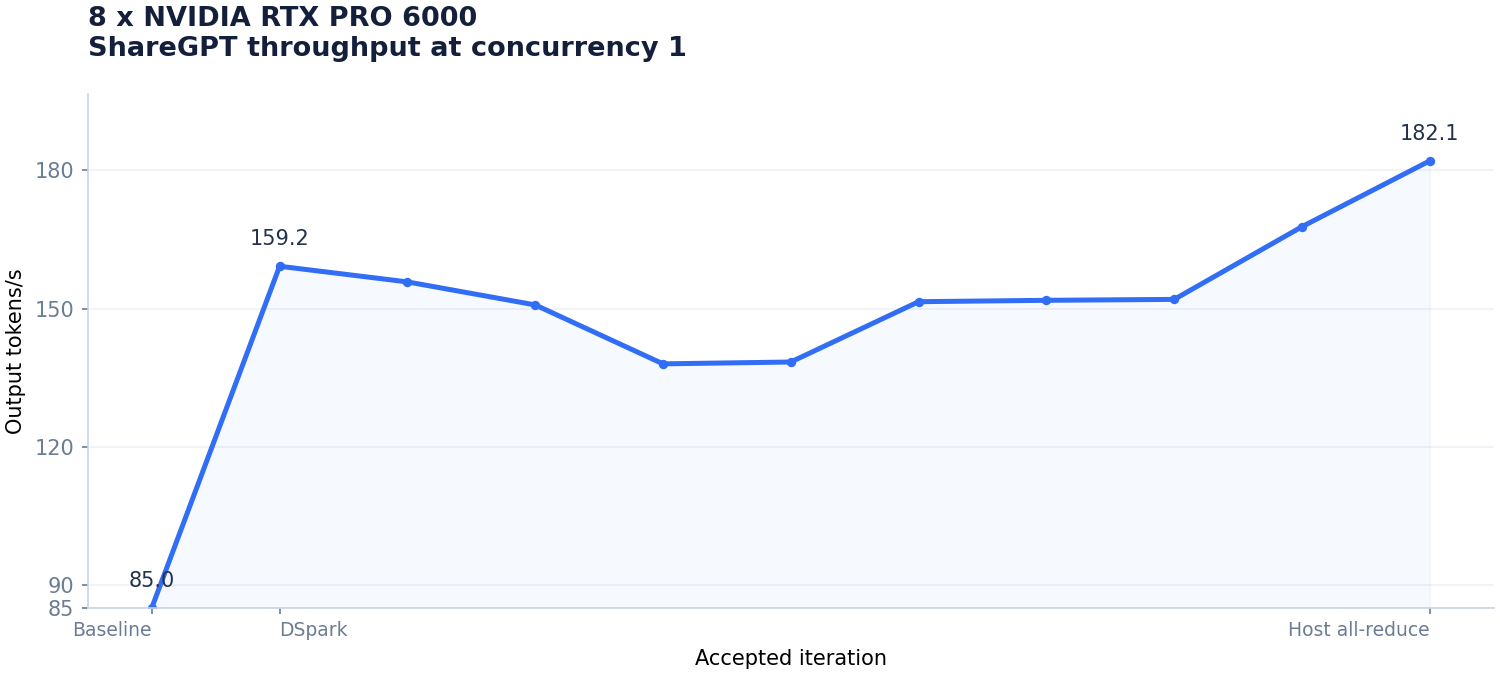
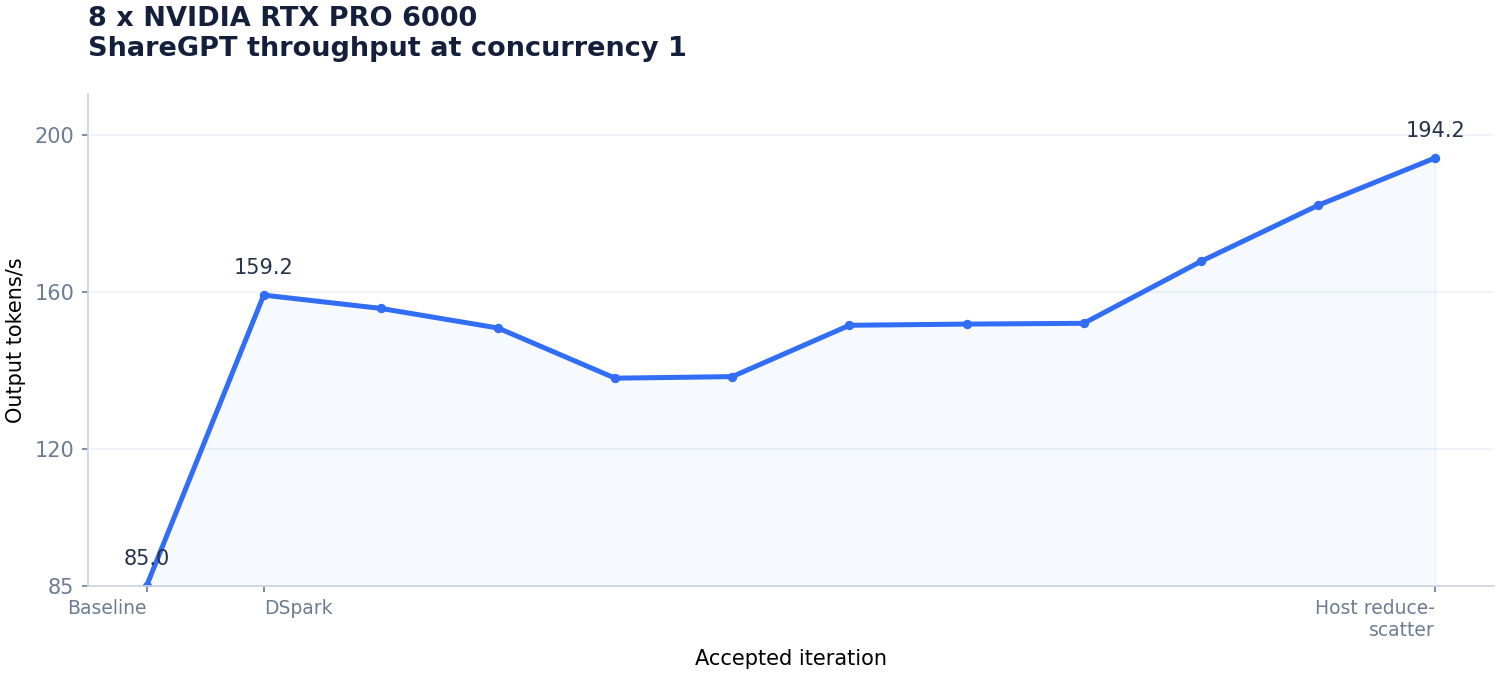
Reduce host-memory traffic

diff --git a/8-nvidia-rtx-pro-6000/CHANGELOG.md b/8-nvidia-rtx-pro-6000/CHANGELOG.md
@@ -4,12 +4,10 @@ The patch is cumulative against `vllm/vllm-openai:v0.32.0`; every working milest
 
 FlashInfer 0.7.1 replaces the bundled 0.7.0.post1 for runtime page-size support, and both the sm120 compatibility patch and `--block-size 64` are required.
 
-## 11. Host all-reduce
+## 12. Host reduce-scatter
 
-- Use mapped host memory in diff.patch for small TP reductions because this node only supports direct GPU peer access within pairs.
-- Publish epoch-tagged values in one CUDA kernel and reduce them across SMs in a second kernel to overlap host-memory reads.
-- Accumulate in FP32 in a fixed rank order so all GPUs receive identical BF16 results.
-- Keep reductions above four rows on NCCL because additional host-memory traffic removes the speedup.
+- Reduce each output slice once and gather the result because having every GPU sum every input repeats host-memory reads.
+- Assign a warp to each peer to overlap host reads while preserving the FP32 rank order and single BF16 rounding.
 
 Requirements, on a fresh vLLM image:
 
@@ -43,14 +41,14 @@ vllm serve deepseek-ai/DeepSeek-V4.1-Flash-1017 \
 
 | Concurrency | Prompts | Output t/s | p95 TTFT (ms) | p95 TPOT (ms) |
 |---:|---:|---:|---:|---:|
-| 1 | 128 | 182.1 | 128.0 | 6.68 |
-| 4 | 128 | 390.1 | 113.6 | 12.04 |
-| 8 | 128 | 586.8 | 211.6 | 15.97 |
-| 16 | 128 | 831.9 | 279.2 | 22.38 |
-| 32 | 128 | 1149.4 | 387.2 | 30.58 |
-| 64 | 128 | 1499.0 | 791.4 | 42.86 |
-| 128 | 256 | 2141.8 | 1322.9 | 75.10 |
-| 256 | 512 | 2741.4 | 3677.1 | 219.44 |
+| 1 | 128 | 194.2 | 128.0 | 6.16 |
+| 4 | 128 | 388.3 | 117.8 | 12.90 |
+| 8 | 128 | 581.0 | 211.9 | 16.09 |
+| 16 | 128 | 835.7 | 278.1 | 22.86 |
+| 32 | 128 | 1163.1 | 394.7 | 30.59 |
+| 64 | 128 | 1479.9 | 916.7 | 39.19 |
+| 128 | 256 | 2069.2 | 1334.7 | 68.75 |
+| 256 | 512 | 2794.1 | 2800.4 | 140.68 |
 
 ## Accepted progress
 
@@ -66,4 +64,5 @@ vllm serve deepseek-ai/DeepSeek-V4.1-Flash-1017 \
 | 8 | Native FP8 cache | 151.8 | [`a9e6ae8`](https://github.com/alvarobartt/DeepSeek-V4.1-Flash-RTX-PRO-6000/tree/a9e6ae8dd71ddca1d6a113493d382719633b3a5c) |
 | 9 | Bounded candidate masking | 152.0 | [`51061a6`](https://github.com/alvarobartt/DeepSeek-V4.1-Flash-RTX-PRO-6000/tree/51061a663497d98b907a35da5ddb76048eaacddb) |
 | 10 | Packed FP4 experts | 167.8 | [`9253782`](https://github.com/alvarobartt/DeepSeek-V4.1-Flash-RTX-PRO-6000/tree/92537829d7ce003664a820e67d61e12b39680329) |
-| 11 | Host all-reduce | 182.1 | This revision |
+| 11 | Host all-reduce | 182.1 | [`f00f364`](https://github.com/alvarobartt/DeepSeek-V4.1-Flash-RTX-PRO-6000/tree/f00f36484aed613e5b1a86566f60fdf9b9e78284) |
+| 12 | Host reduce-scatter | 194.2 | This revision |

diff --git a/README.md b/README.md
@@ -15,14 +15,14 @@ Validated serving recipes for four and eight GPUs, using the checkpoint's origin
 
 | Concurrency | Baseline t/s [^8gpu-baseline] | Baseline + DSpark t/s | Current t/s |
 |---:|---:|---:|---:|
-| 1 | 85.0 | 159.2 (+87.3%) | **182.1 (+14.4%)** |
-| 4 | 253.2 | 380.4 (+50.2%) | **390.1 (+2.5%)** |
-| 8 | 375.4 | 496.2 (+32.2%) | **586.8 (+18.3%)** |
-| 16 | 553.1 | 650.5 (+17.6%) | **831.9 (+27.9%)** |
-| 32 | 657.4 | 954.1 (+45.1%) | **1149.4 (+20.5%)** |
-| 64 | 866.2 | 1185.0 (+36.8%) | **1499.0 (+26.5%)** |
-| 128 | 1242.4 | 1471.9 (+18.5%) | **2141.8 (+45.5%)** |
-| 256 | 1814.1 | 1726.3 (-4.8%) | **2741.4 (+58.8%)** |
+| 1 | 85.0 | 159.2 (+87.3%) | **194.2 (+22.0%)** |
+| 4 | 253.2 | 380.4 (+50.2%) | **388.3 (+2.1%)** |
+| 8 | 375.4 | 496.2 (+32.2%) | **581.0 (+17.1%)** |
+| 16 | 553.1 | 650.5 (+17.6%) | **835.7 (+28.5%)** |
+| 32 | 657.4 | 954.1 (+45.1%) | **1163.1 (+21.9%)** |
+| 64 | 866.2 | 1185.0 (+36.8%) | **1479.9 (+24.9%)** |
+| 128 | 1242.4 | 1471.9 (+18.5%) | **2069.2 (+40.6%)** |
+| 256 | 1814.1 | 1726.3 (-4.8%) | **2794.1 (+61.9%)** |
 
 ![Accepted ShareGPT c1 throughput](8-nvidia-rtx-pro-6000/throughput.png)
 
